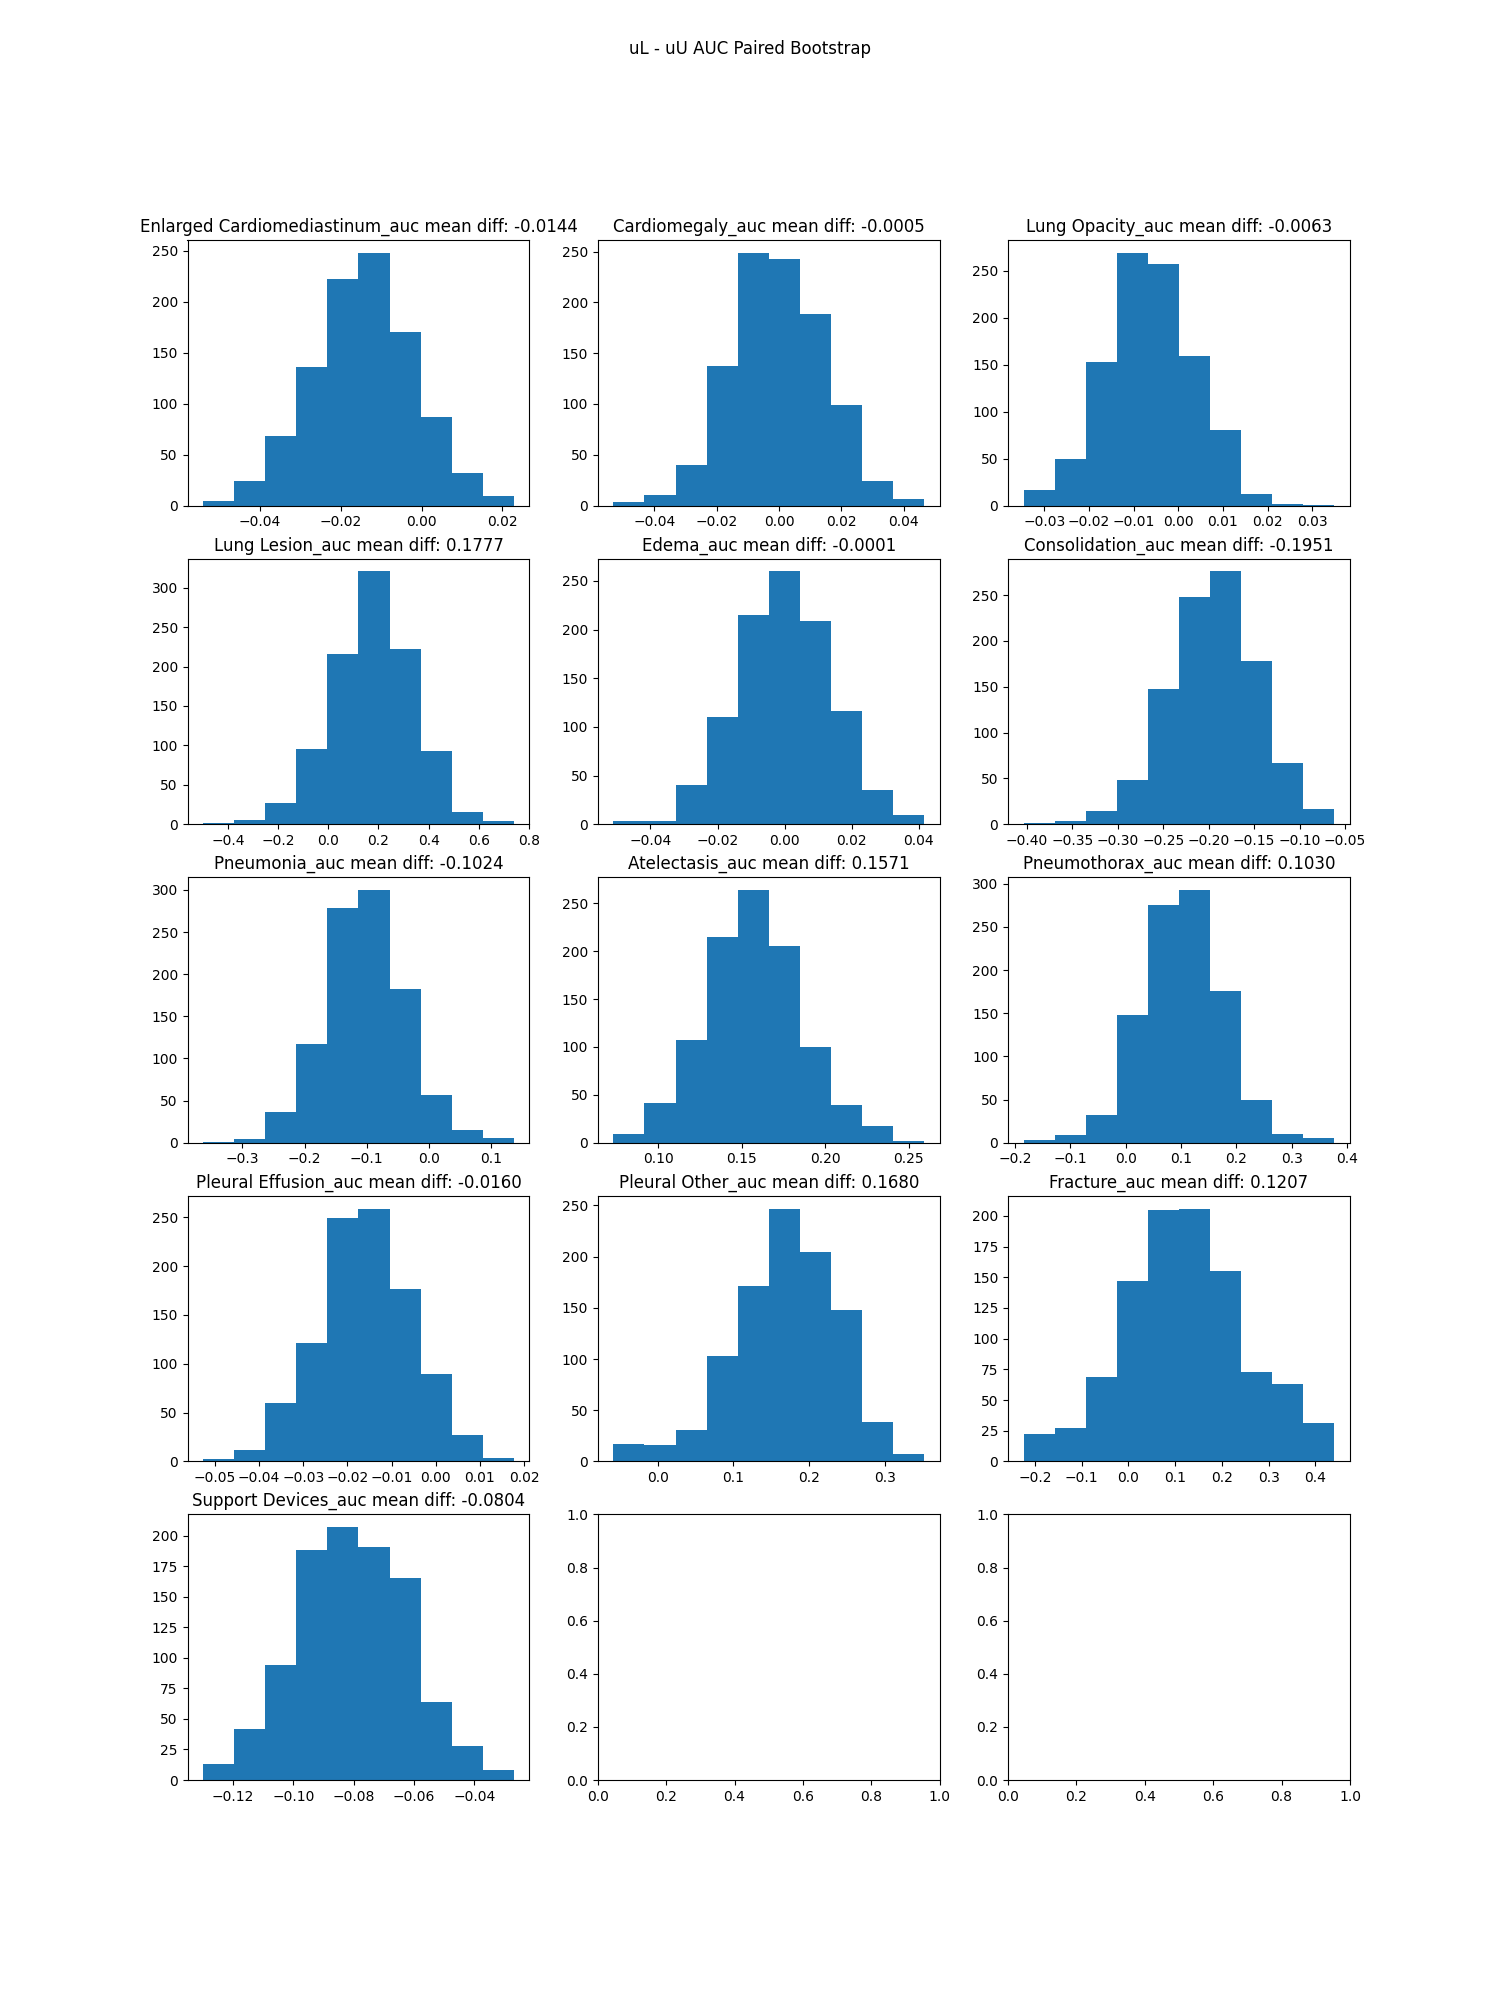
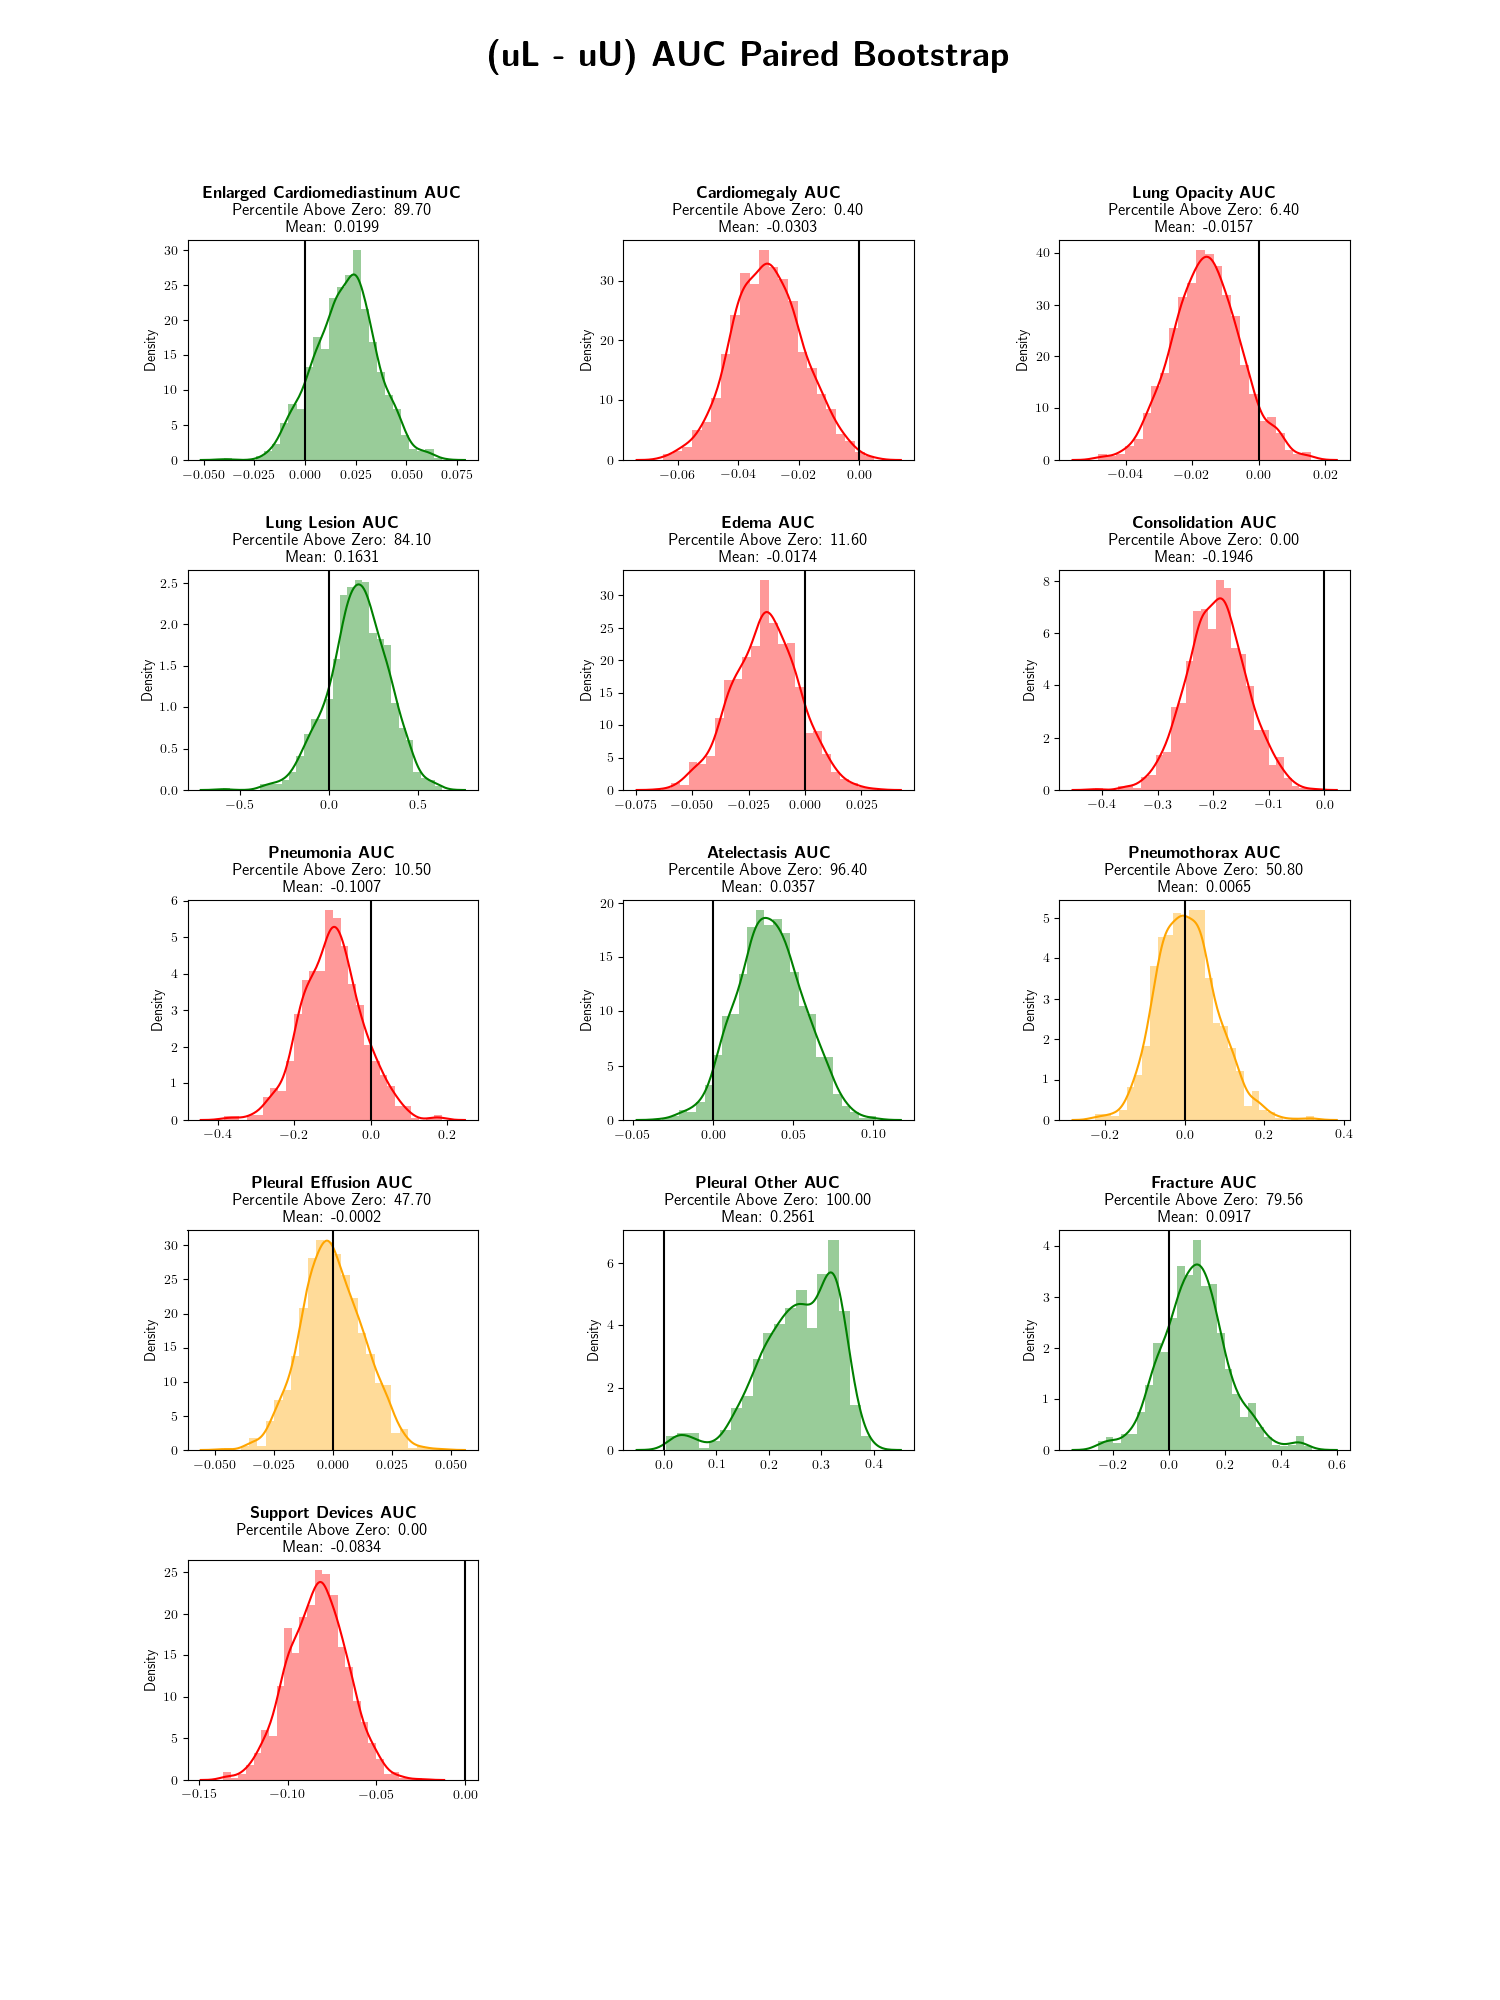
fix plotting

diff --git a/eval.py b/eval.py
@@ -10,7 +10,7 @@ from pathlib import Path
 
 import torch
 from torch.utils import data
-from tqdm.notebook import tqdm
+from tqdm import tqdm
 import torch.nn as nn
 from torchvision.transforms import Compose, Normalize, Resize
 
@@ -22,6 +22,10 @@ from sklearn.utils import resample
 
 import scipy
 import scipy.stats
+import seaborn as sns
+
+from matplotlib import rc
+rc('text', usetex=True)
 
 import sys
 sys.path.append('../..')
@@ -269,14 +273,29 @@ def plot_paired_bootstrap(model1_name, model2_name, df1, df2, metric="AUC", num_
     num_pathologies = len(pathologies)
     num_rows = num_pathologies // num_cols + (1 if num_pathologies % num_cols != 0 else 0)
     fig, axs = plt.subplots(ncols=num_cols, nrows=num_rows, figsize=(15, 20))
+    fig.subplots_adjust(hspace=0.5, wspace=0.5)
     diffs = df1.to_numpy() - df2.to_numpy()
     for idx, pathology in enumerate(pathologies):
         row = idx // num_cols
         col = idx % num_cols
         pathology_diffs = diffs[:, idx][~np.isnan(diffs[:, idx])]
-        axs[row, col].hist(pathology_diffs)
-        axs[row, col].set_title(f"{pathology} mean diff: {float(pathology_diffs.mean()):.4f}")
-    fig.suptitle(f"{model1_name} - {model2_name} {metric} Paired Bootstrap")
+        perc = (pathology_diffs > 0).sum() / len(pathology_diffs) * 100
+        avg = pathology_diffs.mean()
+        threshold = 25
+        if threshold < perc < 100 - threshold:
+            color = "orange"
+        elif perc <= threshold:
+            color = "red"
+        else:
+            color = "green"
+        
+        sns.distplot(pathology_diffs, ax=axs[row, col], color=color)
+        title = f"{pathology[:-4]} AUC"
+        axs[row, col].set_title(r"\textbf{" + title + "}" + f"\n Percentile Above Zero: {perc:.2f}% \n Mean: {float(pathology_diffs.mean()):.4f}")
+        axs[row, col].axvline(0, 0, 1, color="black")
+    axs[-1,-1].set_axis_off()
+    axs[-1,-2].set_axis_off()
+    fig.suptitle(r"\textbf{" + f"({model1_name} - {model2_name}) {metric} Paired Bootstrap" + "}", fontsize=25)
     save_path = os.path.join(save_dir, f"{model1_name}-{model2_name}-{metric}-Paired-Bootstrap.png")
     fig.savefig(save_path) 
     print(f"Saving figure to {save_path}")
